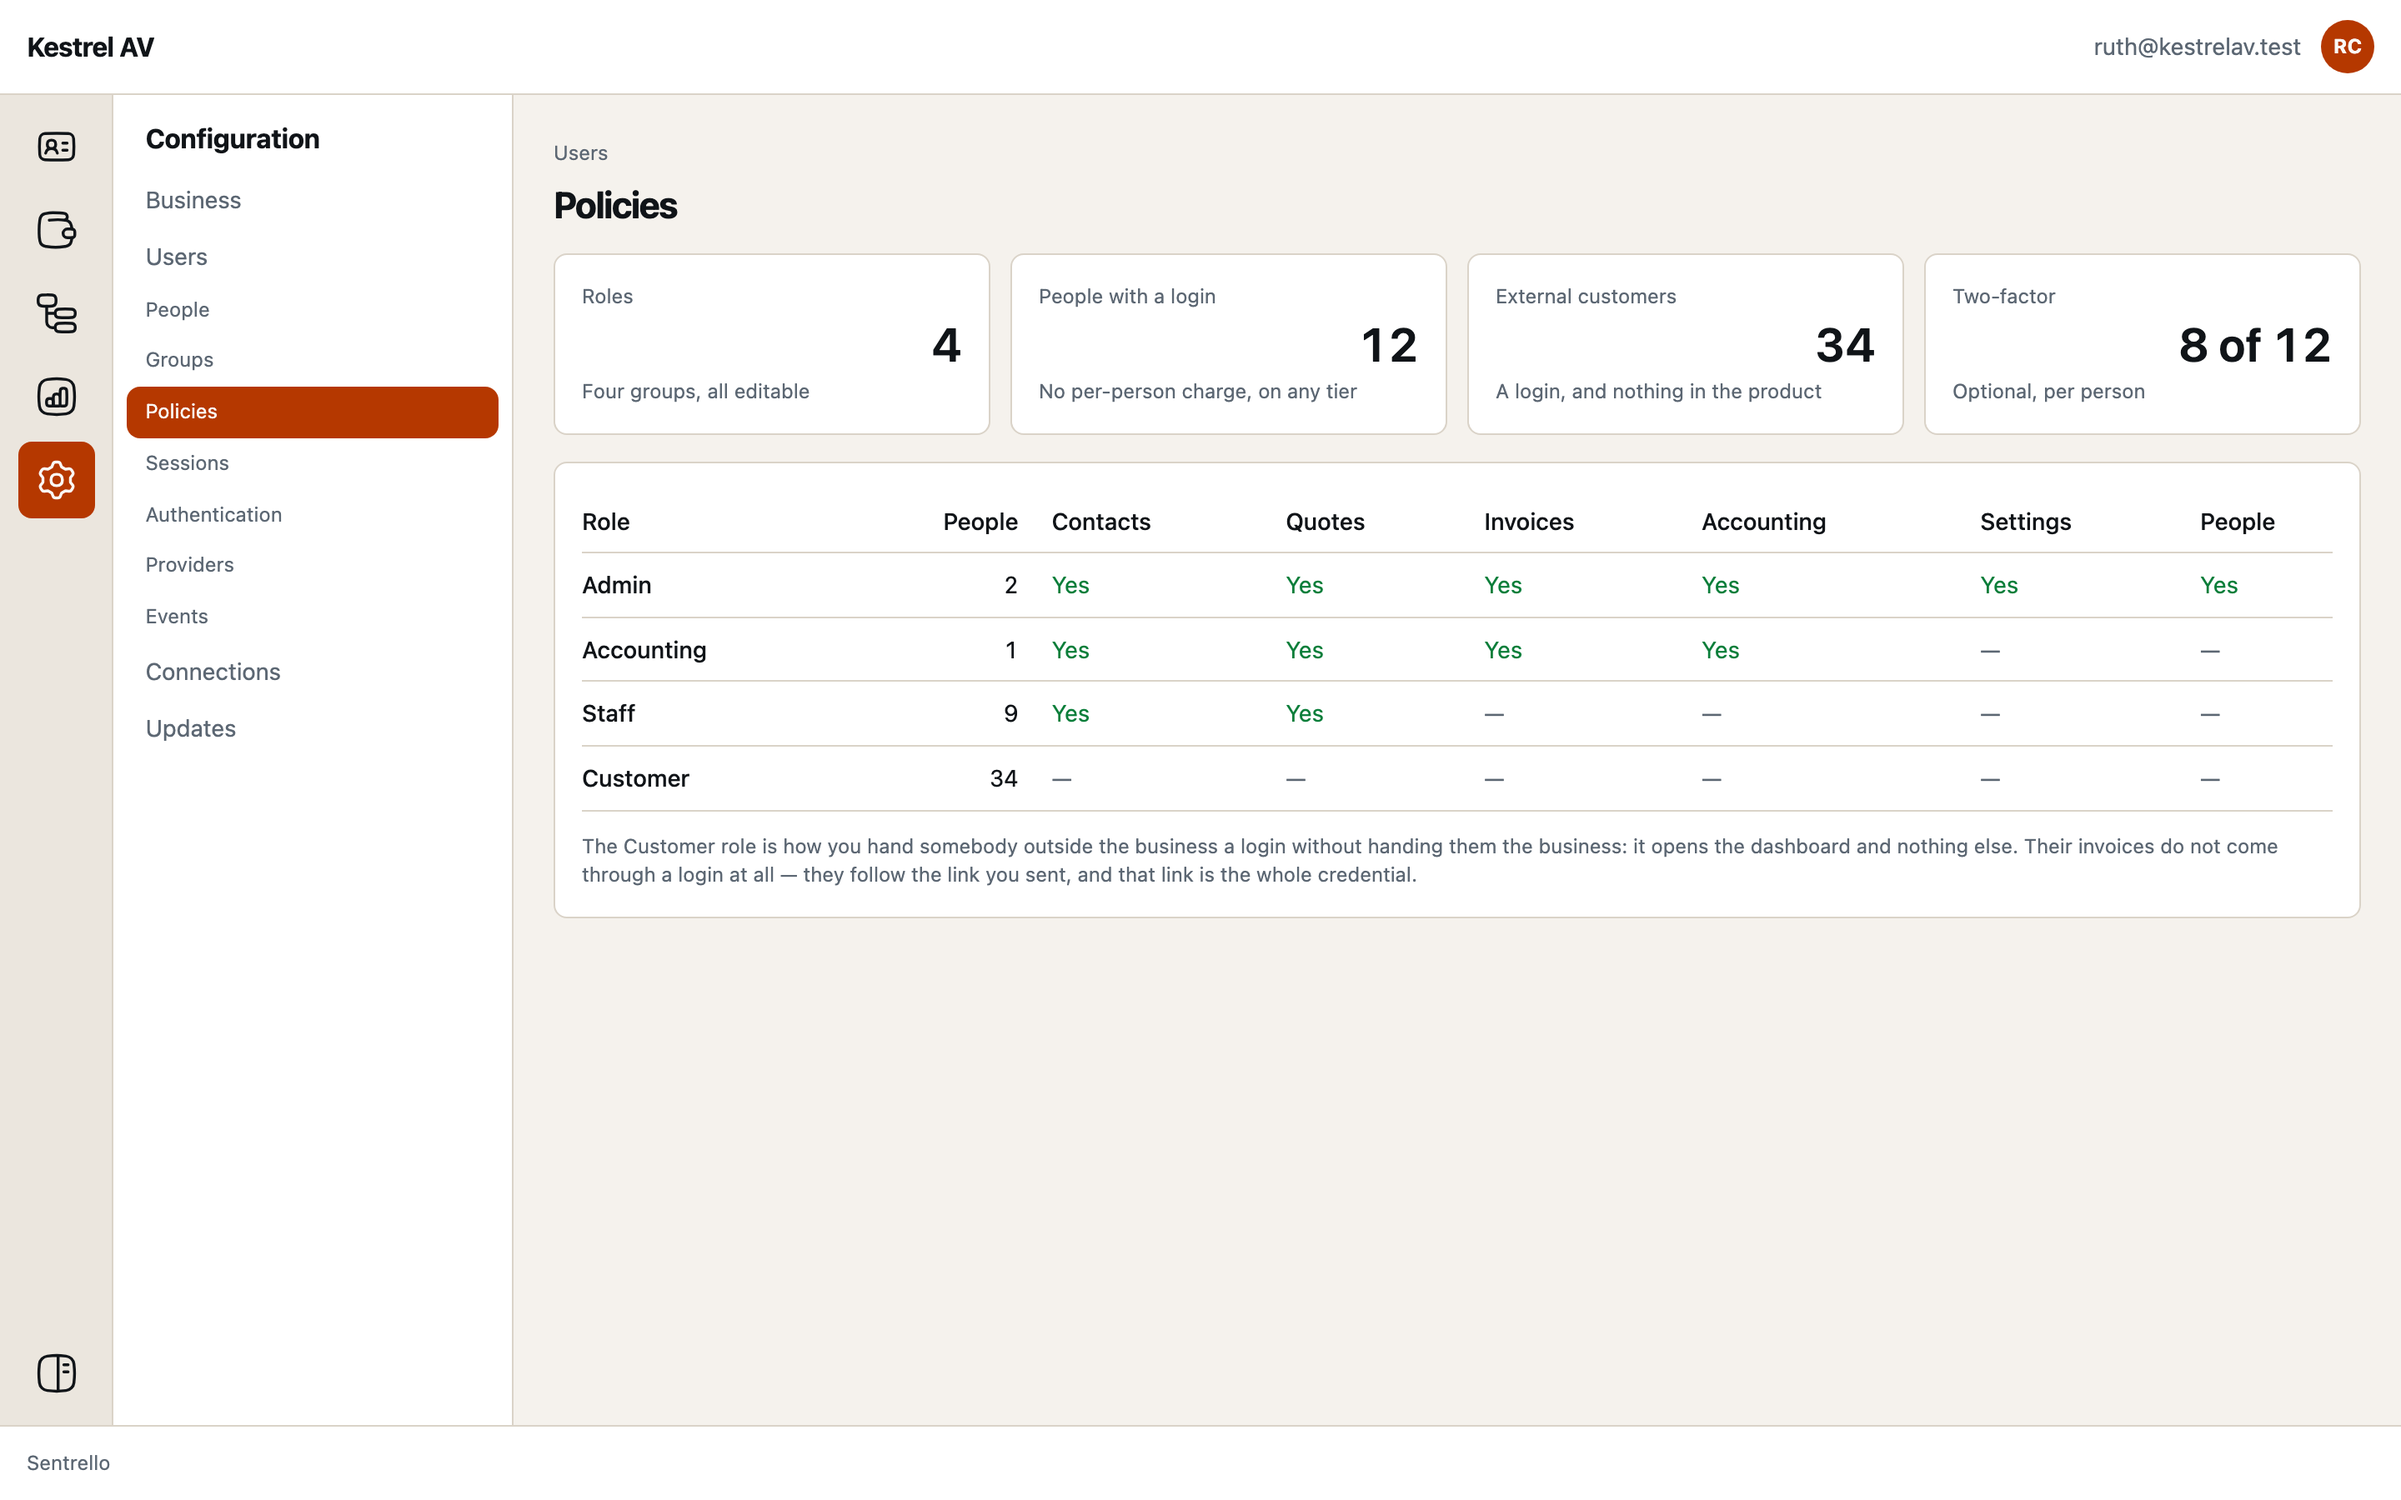
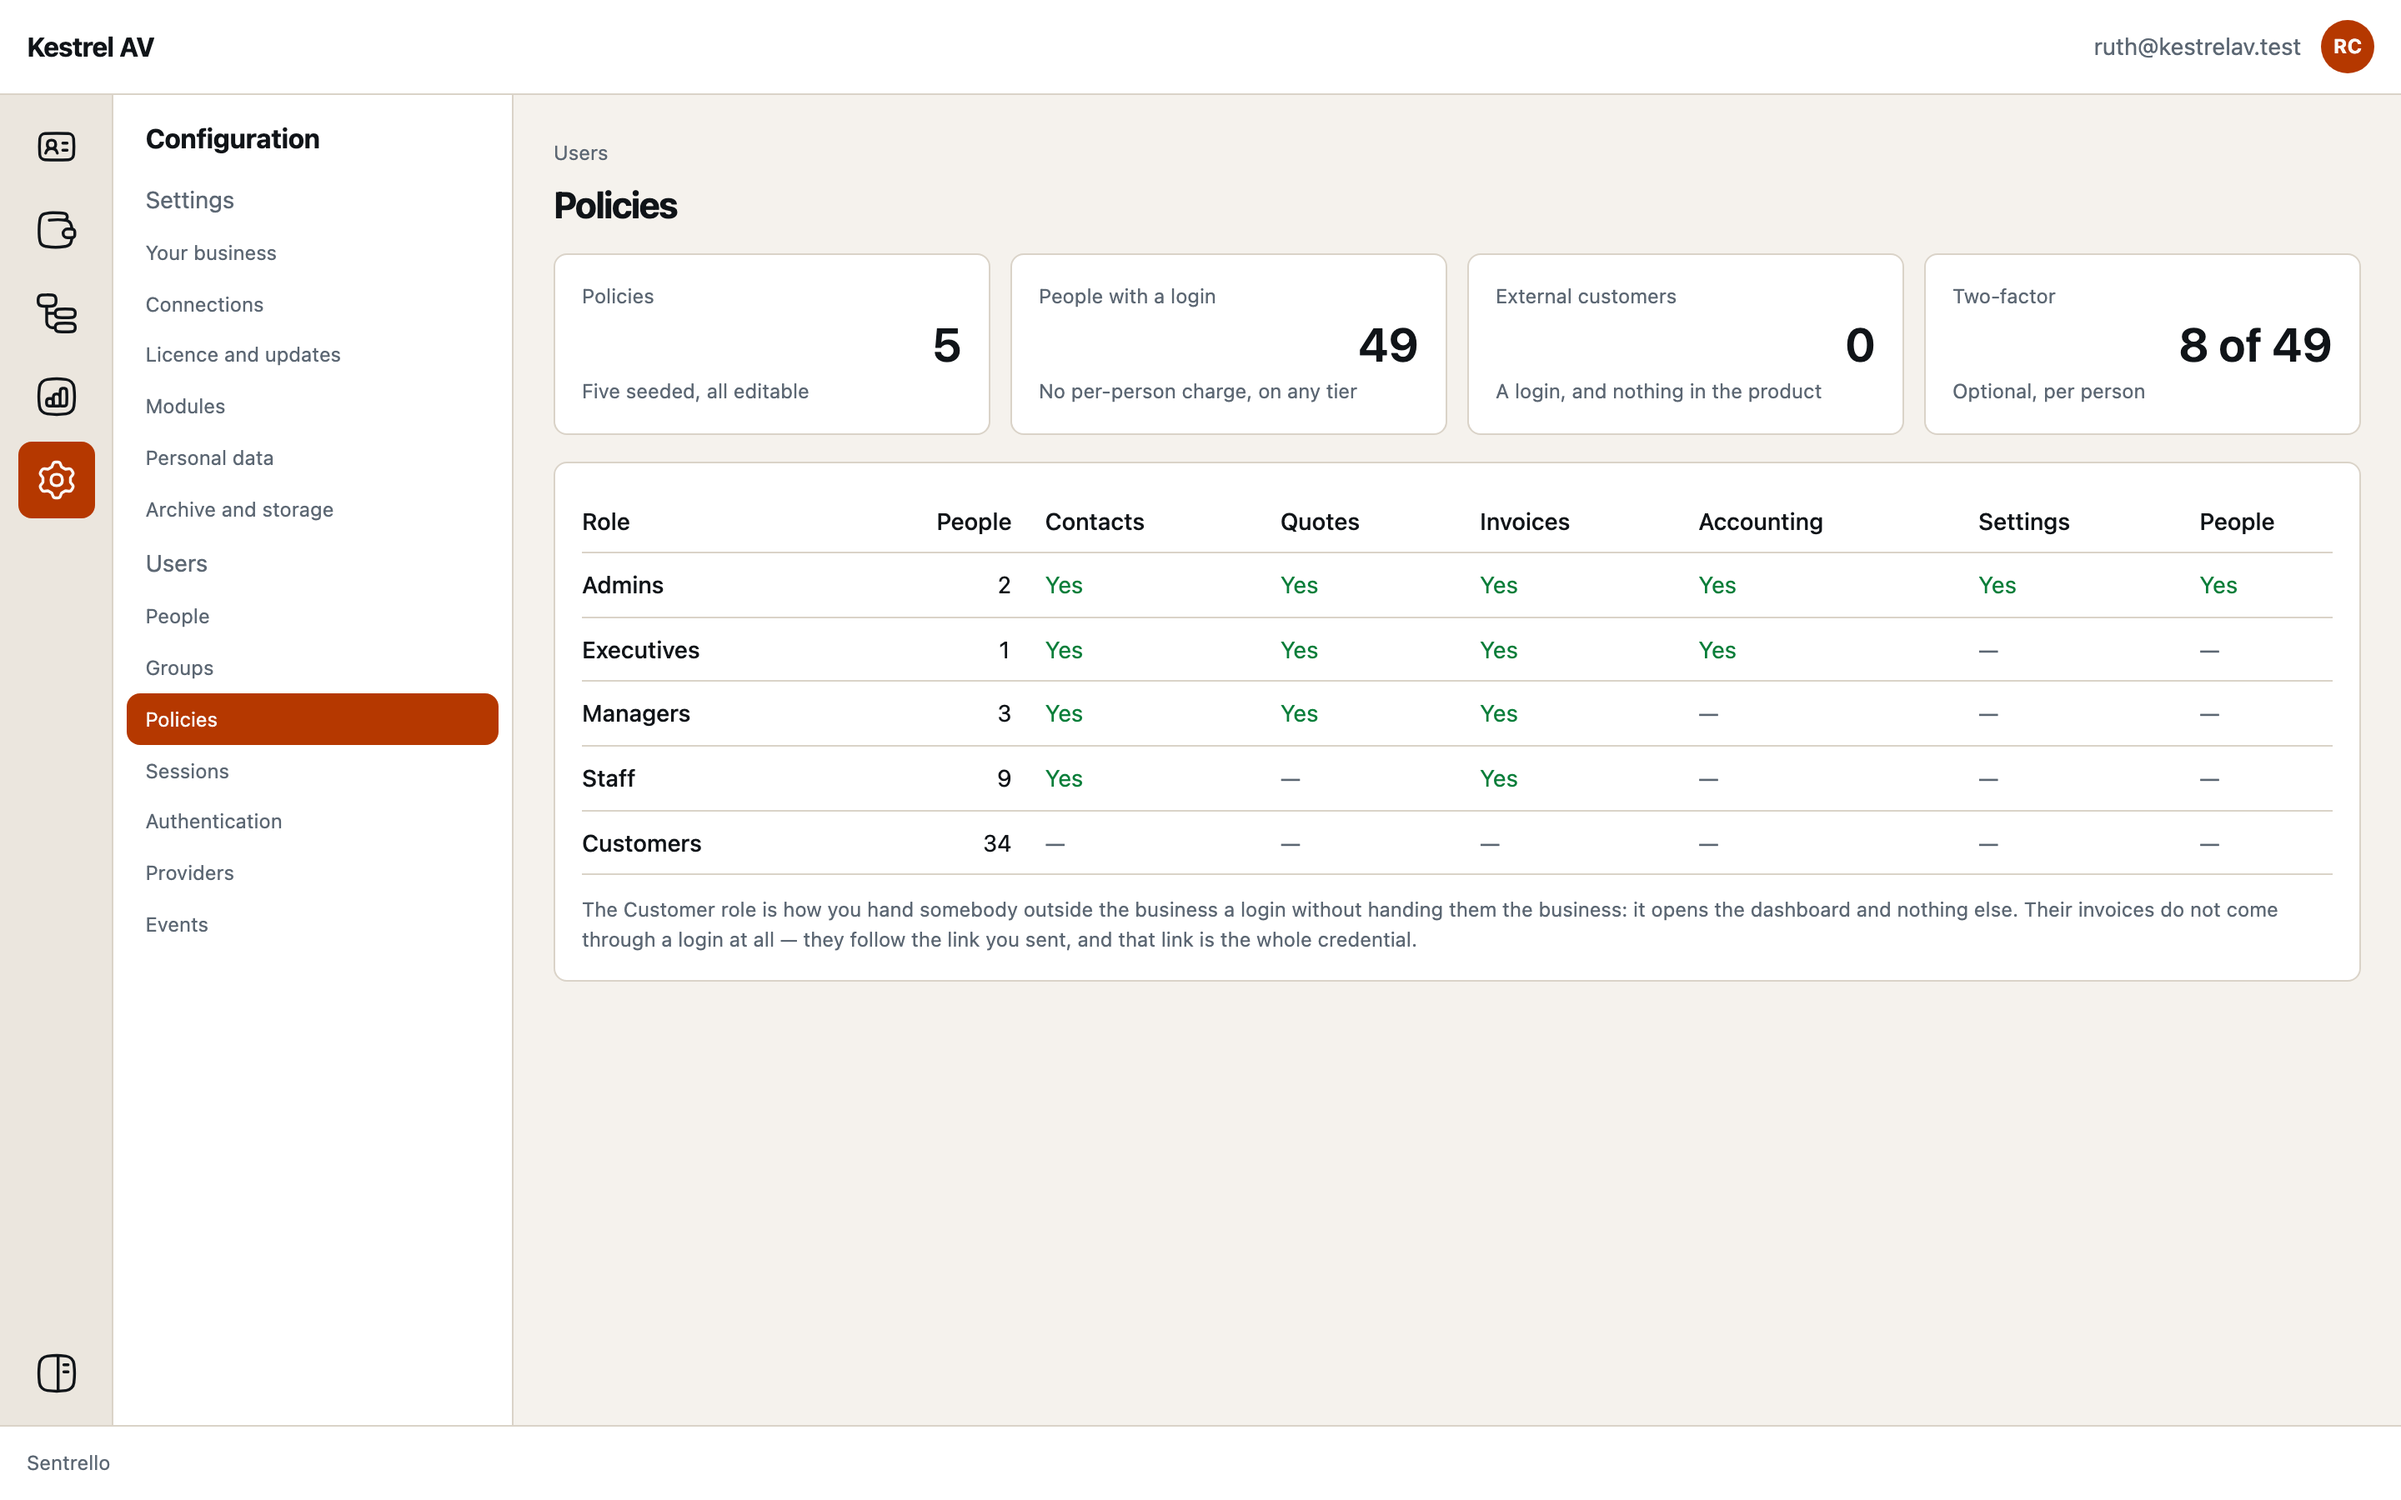
docs: a picture of four roles above a table of five
The access page shows the Policies screen and then lists the five
seeded policies by name. The picture showed four, one of which is a
group policy rather than one you give a person, and two of the five
were not in it. Re-shot from the studio with the seeded five and what
each may open.

The Customers row in the table said "the customer portal only", which
is the claim the platform was proved not to honour — that policy holds
nothing in the product, and a customer own documents come through a
link rather than a login. It says that now, the same as the caption two
paragraphs above it.

The Settings picture changed with it: its sidebar now carries the names
the product uses, and the Currency field on it is real as of this
morning.

diff --git a/docs/site/02-core/users-and-access.md b/docs/site/02-core/users-and-access.md
@@ -14,7 +14,7 @@ straight away, with the access they already have.
 **Users** is its own section in the sidebar, with seven screens: People,
 Groups, Policies, Sessions, Authentication, Providers and Events.
 
-![Users → Policies: four roles against what each may open, with the Customer role able to open the dashboard and nothing else](https://raw.githubusercontent.com/Sentrello/Sentrello/main/docs/images/roles.png)
+![Users → Policies: the five seeded policies against what each may open, with the Customer role able to open the dashboard and nothing else](https://raw.githubusercontent.com/Sentrello/Sentrello/main/docs/images/roles.png)
 
 The **Customer** row is the one worth looking at twice. It is how you hand
 somebody outside the business a login without handing them the business: it
@@ -102,7 +102,7 @@ Five are set up for you and cover most businesses:
 | **Executives** | Everything operational; reads the money screens |
 | **Managers** | Their team's work, and the customers behind it |
 | **Staff** | Day-to-day work; no settings, no books |
-| **Customers** | The customer portal only |
+| **Customers** | Signs in and sees the dashboard. Their own documents come through a link, not a login |
 
 **Groups** do the same job for a department: Sales, Marketing, Accounting,
 Customer Service. A new joiner gets the right access by being put in the right
